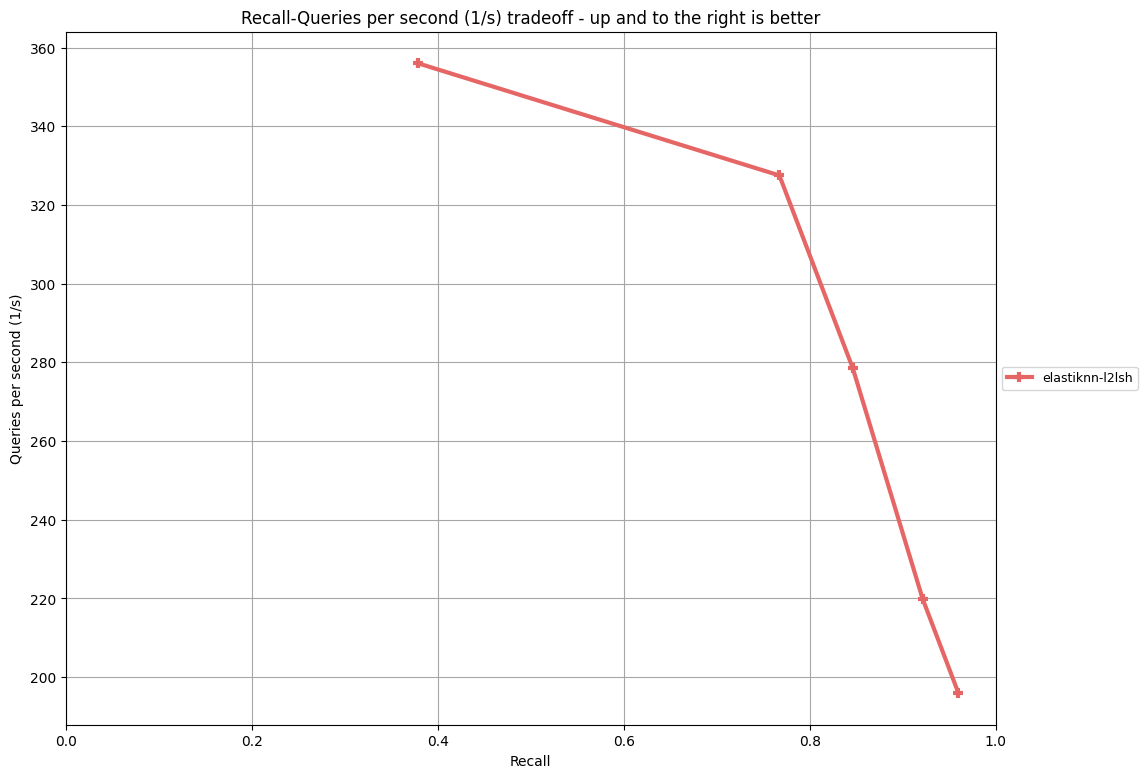
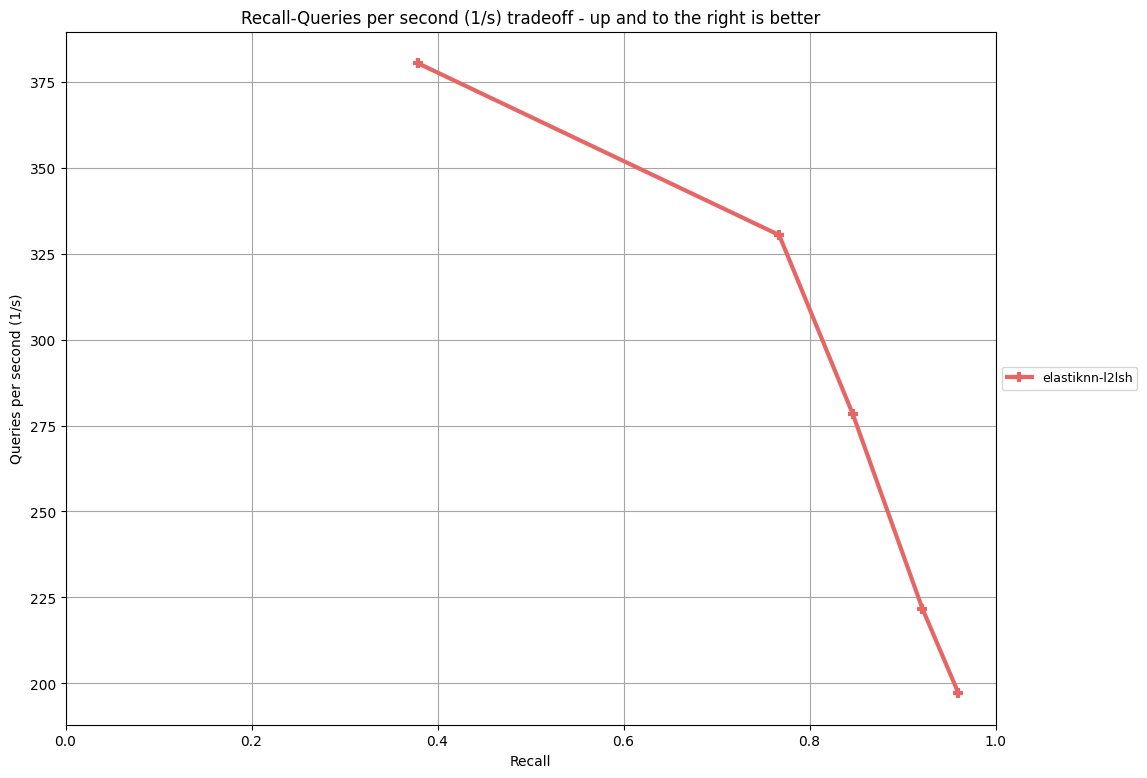
benchmark

diff --git a/docs/pages/performance/fashion-mnist/results.md b/docs/pages/performance/fashion-mnist/results.md
@@ -1,10 +1,10 @@
 |Model|Parameters|Recall|Queries per Second|
 |---|---|---|---|
-|eknn-l2lsh|L=100 k=4 w=1024 candidates=500 probes=0|0.379|356.019|
-|eknn-l2lsh|L=100 k=4 w=1024 candidates=1000 probes=0|0.447|310.560|
-|eknn-l2lsh|L=100 k=4 w=1024 candidates=500 probes=3|0.635|289.144|
-|eknn-l2lsh|L=100 k=4 w=1024 candidates=1000 probes=3|0.717|250.279|
-|eknn-l2lsh|L=100 k=4 w=2048 candidates=500 probes=0|0.767|327.506|
-|eknn-l2lsh|L=100 k=4 w=2048 candidates=1000 probes=0|0.846|278.480|
-|eknn-l2lsh|L=100 k=4 w=2048 candidates=500 probes=3|0.921|219.916|
-|eknn-l2lsh|L=100 k=4 w=2048 candidates=1000 probes=3|0.960|195.922|
+|eknn-l2lsh|L=100 k=4 w=1024 candidates=500 probes=0|0.379|380.371|
+|eknn-l2lsh|L=100 k=4 w=1024 candidates=1000 probes=0|0.447|305.831|
+|eknn-l2lsh|L=100 k=4 w=1024 candidates=500 probes=3|0.635|292.164|
+|eknn-l2lsh|L=100 k=4 w=1024 candidates=1000 probes=3|0.717|253.758|
+|eknn-l2lsh|L=100 k=4 w=2048 candidates=500 probes=0|0.767|330.408|
+|eknn-l2lsh|L=100 k=4 w=2048 candidates=1000 probes=0|0.847|278.242|
+|eknn-l2lsh|L=100 k=4 w=2048 candidates=500 probes=3|0.921|221.691|
+|eknn-l2lsh|L=100 k=4 w=2048 candidates=1000 probes=3|0.960|197.147|
